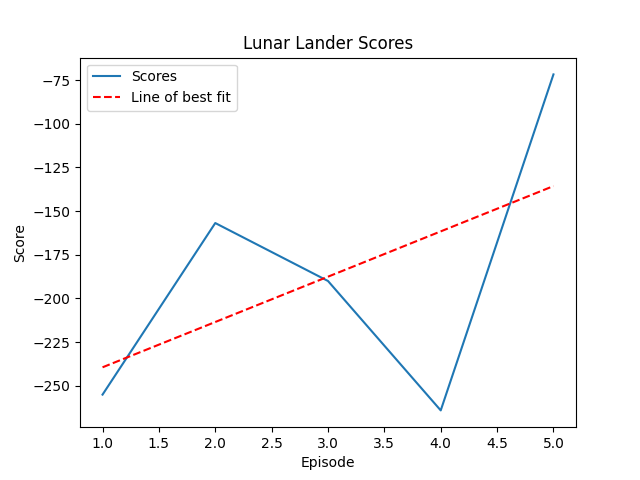
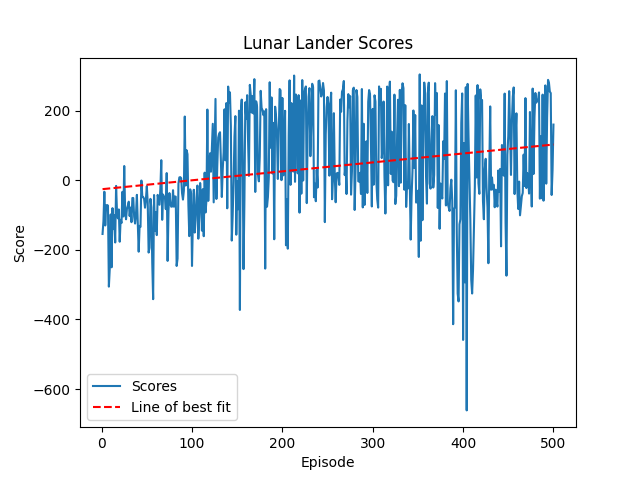
So the bet begins...

diff --git a/DQN_Starting/llc_full.py b/DQN_Starting/llc_full.py
@@ -5,6 +5,8 @@ import torch.nn as nn
 import torch.nn.functional as F
 import torch.optim as optim
 import matplotlib.pyplot as plt # Import matplotlib
+import time
+
 
 class DeepQNetwork(nn.Module):
     def __init__(self, lr, input_dims, fc1_dims, fc2_dims, n_actions):
@@ -31,8 +33,10 @@ class DeepQNetwork(nn.Module):
         return actions
 
 class Agent():
-    def __init__(self, gamma, epsilon, lr, input_dims, batch_size, n_actions, max_mem_size=100000, epsilon_end=0.01, epsilon_dec=5e-5):
+    def __init__(self, gamma, epsilon, lr, input_dims, episodes, batch_size, n_actions, renew_eps, max_mem_size=100000, epsilon_end=0.01, epsilon_dec=1e-4):
         self.gamma = gamma
+        self.episodes = episodes
+        self.renew_eps = renew_eps
         self.epsilon = epsilon
         self.eps_min = epsilon_end
         self.eps_dec = epsilon_dec
@@ -113,14 +117,21 @@ class Agent():
         loss.backward()
         self.Q_eval.optimizer.step()
 
-        self.epsilon = max(self.eps_min, self.epsilon - self.eps_dec) #More efficent.
+
+        '''if self.epsilon == self.eps_min and [scores[i] < 0 for i in range(int(self.episodes/10))]:
+            self.epsilon = self.renew_eps
+        else:'''
+        self.epsilon = max(self.eps_min, self.epsilon - self.eps_dec) 
+
+
+start_time = time.time()
 
 if __name__ == '__main__':
+    n_games = 500
     env = gym.make('LunarLander-v3')
-    agent = Agent(gamma=0.99, epsilon=1.0, batch_size=64, n_actions=4, epsilon_end=0.01, input_dims=[8], lr=0.003)
+    agent = Agent(gamma=0.99, epsilon=1.0, batch_size=64, n_actions=4, epsilon_end=0.15, input_dims=[8], episodes=n_games, lr=0.003, renew_eps=0.5)
     scores, eps_history = [], []
-    n_games = 5
-
+    
     for i in range(n_games):
         score = 0
         done = False
@@ -138,11 +149,16 @@ if __name__ == '__main__':
         eps_history.append(agent.epsilon)
         avg_score = np.mean(scores[-100:])
 
-        print('episode ', i, 'score %.2f' % score,
+        print('episode ', i + 1, 'score %.2f' % score,
               'average score %.2f' % avg_score,
               'epsilon %.2f' % agent.epsilon)
 
     x = [i + 1 for i in range(n_games)] 
+
+    end_time = time.time()  # Record the end time
+    execution_time = end_time - start_time  # Calculate the execution time
+
+    print(f"Execution time: {execution_time:.2f} seconds")  # Print the execution time
 
     # Plot scores with line of best fit
     plt.plot(x, scores, label='Scores')
